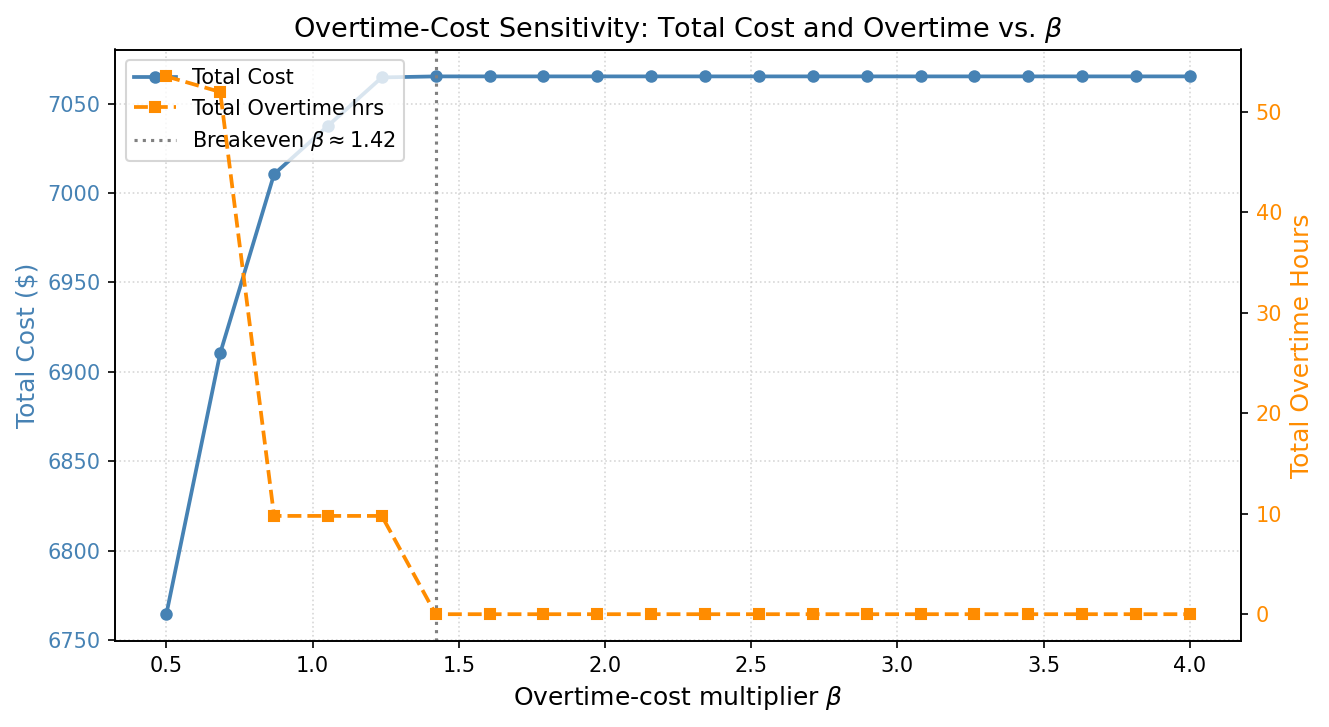
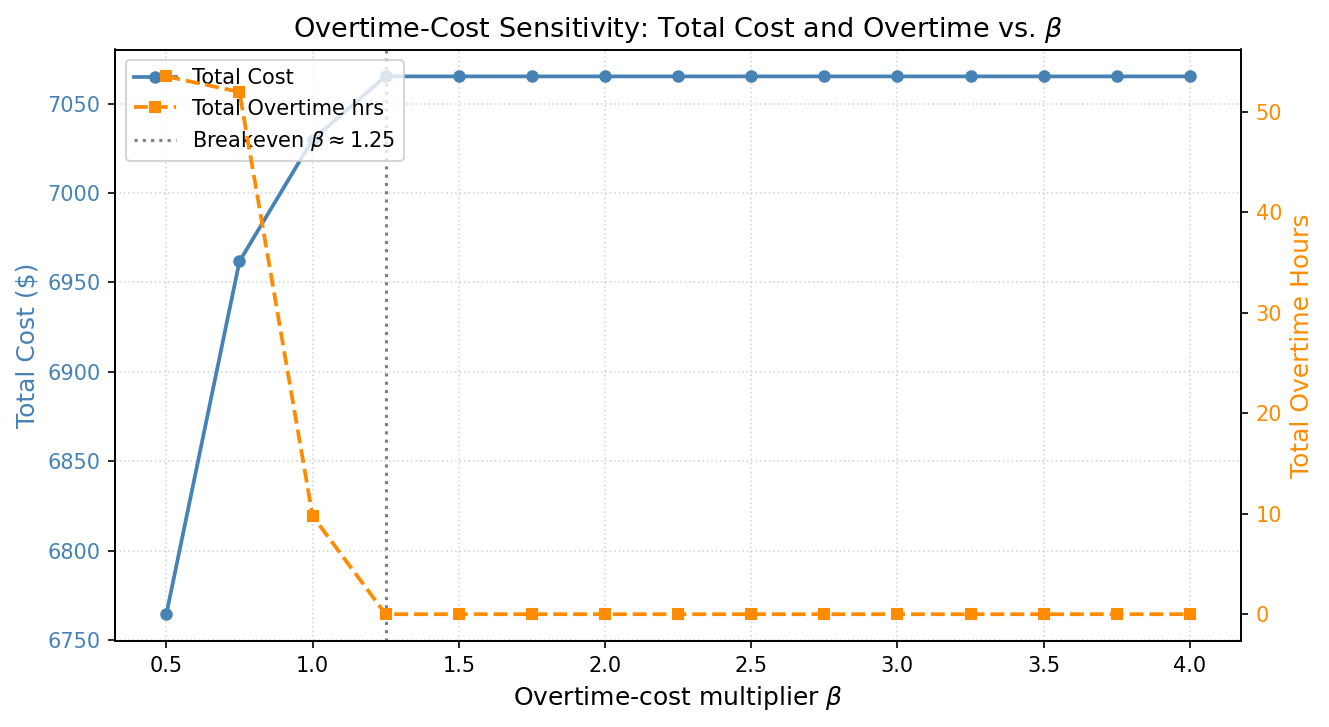
add: part A exam

diff --git a/semester_1/mathematical_programming/exercises/coding_exam/part_A_Hurtado.py b/semester_1/mathematical_programming/exercises/coding_exam/part_A_Hurtado.py
@@ -92,7 +92,7 @@ epsilon = 0.25
 # 3. MODEL BUILDER
 # ===========================================================================
 
-def build_and_solve(alpha=1.0, beta=1.0):
+def build_and_solve(alpha=1.0, beta=1.0, output_flag=False):
     """
     Params:
     alpha : multiplier on holding costs CH_k -> alpha * CH_k
@@ -103,17 +103,34 @@ def build_and_solve(alpha=1.0, beta=1.0):
     Returns (model, vars_dict) or (None, None) if not optimal.
     """
     mdl = gp.Model("production_planning_problem")
+    mdl.setParam('OutputFlag', 1 if output_flag else 0)  # Suppress Gurobi output
 
+    # Adjusted costs based on sensitivity parameters
     CH  = {k: alpha * CH_base[k] for k in K}
     cov = {(m, t): beta * cov_base[m, t] for m in M for t in T}
 
+    # ===================================================================================
     # Variables
+    # ===================================================================================
+    # x[m,k,t] = unit of k produced on furnace m in period t
     x   = mdl.addVars(M, K, T, vtype=GRB.CONTINUOUS, lb=0, name='x')
+
+    # y[j,k,t] = unit of k delivered to DC j in period t
     y   = mdl.addVars(J, K, T, vtype=GRB.CONTINUOUS, lb=0, name='y')
-    inv = mdl.addVars(K, T, vtype=GRB.CONTINUOUS,    lb=0, name='inv')
-    bkd = mdl.addVars(K, T, vtype=GRB.CONTINUOUS,    lb=0, name='bkd')
-    ot  = mdl.addVars(M, T, vtype=GRB.CONTINUOUS,    lb=0, name='ot')
-    z   = mdl.addVars(M, T, vtype=GRB.BINARY,              name='z')
+
+    # inv[k,t] = physical inventory of k at end of period t
+    # note: I can limit inventory to 200 units (S_cap).
+    # Contraint (6) will enforce this, but adding an upper bound here can help the solver.
+    inv = mdl.addVars(K, T, vtype=GRB.CONTINUOUS, lb=0, ub=200, name='inventory')
+
+    # bkd[k,t] = cumulativebackorder of k at end of period t
+    bkd = mdl.addVars(K, T, vtype=GRB.CONTINUOUS, lb=0, name='backorder')
+    
+    # ot[m,t] = overtime hours used on furnace m in period t
+    ot  = mdl.addVars(M, T, vtype=GRB.CONTINUOUS, lb=0, name='overtime')
+
+    # z[m,t] = binary variable indicating if furnace m is used in period t
+    z   = mdl.addVars(M, T, vtype=GRB.BINARY, name='furnace_used')
 
     # Objective (1)
     mdl.setObjective(
@@ -144,12 +161,12 @@ def build_and_solve(alpha=1.0, beta=1.0):
             mdl.addConstr(
                 quicksum(y[j,k,t] for j in J) + bkd[k,t]
                 == quicksum(D[j,k,t] for j in J) + bkd_prev,
-                name=f'bo_bal_{k}_{t}'
+                name=f'backorder_bal_{k}_{t}'
             )
 
     # (4) Final backorders = 0
     for k in K:
-        mdl.addConstr(bkd[k, 4] == 0, name=f'bo_final_{k}')
+        mdl.addConstr(bkd[k, len(T)] == 0, name=f'backorder_final_{k}')
 
     # (5) Service level
     for k in K:
@@ -161,9 +178,10 @@ def build_and_solve(alpha=1.0, beta=1.0):
             )
 
     # (6) Inventory cap
-    for k in K:
-        for t in T:
-            mdl.addConstr(inv[k,t] <= S_cap[k], name=f'inv_cap_{k}_{t}')
+    # Note: I already set an UB of 200 in inv[k,t] when defining the variable, so this constraint is redundant
+    # for k in K:
+    #     for t in T:
+    #         mdl.addConstr(inv[k,t] <= S_cap[k], name=f'inv_cap_{k}_{t}')
 
     # (7) Machine hours
     for m in M:
@@ -171,22 +189,26 @@ def build_and_solve(alpha=1.0, beta=1.0):
             mdl.addConstr(
                 quicksum(a_mach[m,k] * x[m,k,t] for k in K)
                 <= H_reg[m,t] * z[m,t] + ot[m,t],
-                name=f'hours_{m}_{t}'
+                name=f'hours_used_{m}_{t}'
             )
 
     # (8) Overtime limit
     for m in M:
         for t in T:
-            mdl.addConstr(ot[m,t] <= H_ov[m,t] * z[m,t], name=f'ot_lim_{m}_{t}')
+            mdl.addConstr(
+                ot[m,t] <= H_ov[m,t] * z[m,t], 
+                name=f'overtime_lim_{m}_{t}'
+            )
 
     # (9)-(10) Production smoothing
     for k in K:
         for t in T:
             if t >= 2:
-                X_t   = quicksum(x[m,k,t]   for m in M)
-                X_tm1 = quicksum(x[m,k,t-1] for m in M)
-                mdl.addConstr(X_t <= (1 + epsilon) * X_tm1, name=f'smooth_up_{k}_{t}')
-                mdl.addConstr(X_t >= (1 - epsilon) * X_tm1, name=f'smooth_dn_{k}_{t}')
+                X_kt = quicksum(x[m,k,t]  for m in M)
+                X_kt_1 = quicksum(x[m,k,t-1] for m in M)
+
+                mdl.addConstr(X_kt <= (1 + epsilon) * X_kt_1, name=f'smooth_up_{k}_{t}')
+                mdl.addConstr(X_kt >= (1 - epsilon) * X_kt_1, name=f'smooth_down_{k}_{t}')
 
     mdl.optimize()
 
@@ -206,15 +228,19 @@ print("="*70)
 
 mdl, vs = build_and_solve(alpha=1.0, beta=1.0, output_flag=True)
 if mdl is None:
-    raise SystemExit("Base model infeasible!")
+    raise SystemExit("Base model infeasible, sad!")
 
 x_v, y_v, inv_v, bkd_v, ot_v, z_v = (
     vs['x'], vs['y'], vs['inv'], vs['bkd'], vs['ot'], vs['z']
 )
-
+# ===========================================================================
+# i) Optimal objective value
+# ===========================================================================
 print(f"\nOptimal objective value: {mdl.ObjVal:,.4f}\n")
 
-# Production / delivery / inventory / backorder table
+# ===========================================================================
+# ii) Actual Demand / Optimal production / delivery / inventory / backorder table
+# ===========================================================================
 rows = []
 for k in K:
     for t in T:
@@ -232,10 +258,12 @@ for k in K:
             'B_kt': round(B_kt, 4),
         })
 df_prod = pd.DataFrame(rows)
-print("Production / Delivery / Inventory / Backorder Table:")
+print("Demand / Production / Delivery / Inventory / Backorder Table:")
 print(df_prod.to_string(index=False))
 
-# Furnace schedule table
+# ===========================================================================
+# iii) Furnace table (z[m,t], hours used, overtime used)
+# ===========================================================================
 rows2 = []
 for m in M:
     for t in T:
@@ -251,43 +279,28 @@ for m in M:
             'Total hrs used': round(hours_used, 4),
         })
 df_furn = pd.DataFrame(rows2)
-print("\nFurnace Schedule Table:")
+print("\nFurnace Table:")
 print(df_furn.to_string(index=False))
-
-# Cost breakdown
-cost_prod  = sum(CP[m,k,t]     * x_v[m,k,t].X  for m in M for k in K for t in T)
-cost_trans = sum(CT[j,k,t]     * y_v[j,k,t].X  for j in J for k in K for t in T)
-cost_act   = sum(CF[m,t]       * z_v[m,t].X    for m in M for t in T)
-cost_ot    = sum(cov_base[m,t] * ot_v[m,t].X   for m in M for t in T)
-cost_hold  = sum(CH_base[k]    * inv_v[k,t].X  for k in K for t in T)
-cost_bo    = sum(CB[k]         * bkd_v[k,t].X  for k in K for t in T)
-
-print("\nCost Breakdown:")
-print(f"  Production cost : {cost_prod:,.4f}")
-print(f"  Transport cost  : {cost_trans:,.4f}")
-print(f"  Activation cost : {cost_act:,.4f}")
-print(f"  Overtime cost   : {cost_ot:,.4f}")
-print(f"  Holding cost    : {cost_hold:,.4f}")
-print(f"  Backorder cost  : {cost_bo:,.4f}")
-print(f"  TOTAL           : {cost_prod+cost_trans+cost_act+cost_ot+cost_hold+cost_bo:,.4f}")
-
-# Store base x values for reporting
-X_base = {(m,k,t): x_v[m,k,t].X for m in M for k in K for t in T}
 
 # ===========================================================================
 # 5. A.2 — HOLDING-COST SENSITIVITY
 # ===========================================================================
 
 print("\n" + "="*70)
-print("  A.2 — HOLDING-COST SENSITIVITY  (alpha sweep, 25 points)")
+print("  A.2 — HOLDING-COST SENSITIVITY  (alpha sweep, 20 points)")
 print("="*70)
 
-alphas   = np.linspace(0, 5, 25)
+alphas   = np.linspace(0, 5, 20)
+print(
+    "Running sensitivity analysis on alpha (holding-cost multiplier):\n"
+    f" Testing values: {', '.join(f'{a:.2f}' for a in alphas)} \n"
+)
 costs_A2 = []
 invs_A2  = []
 
 for alpha in alphas:
-    m2, vs2 = build_and_solve(alpha=alpha, beta=1.0)
+    m2, vs2 = build_and_solve(alpha=alpha, beta=1.0, output_flag=False)
+    status_str = "Optimal" if m2 is not None and m2.Status == GRB.OPTIMAL else "Infeasible/Unbounded"
     if m2 is None:
         costs_A2.append(float('nan'))
         invs_A2.append(float('nan'))
@@ -295,9 +308,9 @@ for alpha in alphas:
         costs_A2.append(m2.ObjVal)
         total_inv = sum(vs2['inv'][k,t].X for k in K for t in T)
         invs_A2.append(total_inv)
-    print(f"  alpha={alpha:.3f}  cost={costs_A2[-1]:,.2f}  inv={invs_A2[-1]:.2f}")
+    print(f"{status_str}  alpha={alpha:.3f}  cost={costs_A2[-1]:,.2f}  inv={invs_A2[-1]:.2f}")
 
-kink_alpha = None
+kink_alpha = None # point where inventory drops to zero, indicating a shift from produce-ahead to just-in-time strategy
 for a_val, inv_val in zip(alphas, invs_A2):
     if inv_val < 1e-3:
         kink_alpha = a_val
@@ -335,15 +348,20 @@ print(f"Figure saved: {path_A2}")
 # ===========================================================================
 
 print("\n" + "="*70)
-print("  A.3 — OVERTIME-COST SENSITIVITY  (beta sweep, 20 points)")
+print("  A.3 — OVERTIME-COST SENSITIVITY  (beta sweep, 15 points)")
 print("="*70)
 
-betas    = np.linspace(0.5, 4.0, 20)
+betas    = np.linspace(0.5, 4.0, 15)
+print(
+    "Running sensitivity analysis on beta (overtime-cost multiplier):\n"
+    f" Testing values: {', '.join(f'{b:.2f}' for b in betas)} \n"
+)
 costs_A3 = []
 ots_A3   = []
 
 for beta in betas:
-    m3, vs3 = build_and_solve(alpha=1.0, beta=beta)
+    m3, vs3 = build_and_solve(alpha=1.0, beta=beta, output_flag=False)
+    status_str = "Optimal" if m3 is not None and m3.Status == GRB.OPTIMAL else "Infeasible/Unbounded"
     if m3 is None:
         costs_A3.append(float('nan'))
         ots_A3.append(float('nan'))
@@ -351,9 +369,9 @@ for beta in betas:
         costs_A3.append(m3.ObjVal)
         total_ot = sum(vs3['ot'][m,t].X for m in M for t in T)
         ots_A3.append(total_ot)
-    print(f"  beta={beta:.3f}  cost={costs_A3[-1]:,.2f}  overtime={ots_A3[-1]:.4f}")
+    print(f"{status_str}  beta={beta:.3f}  cost={costs_A3[-1]:,.2f}  overtime={ots_A3[-1]:.4f}")
 
-breakeven_beta = None
+breakeven_beta = None # point where overtime drops to zero, indicating that the overtime premium exceeds the marginal benefit of extra production
 for b_val, ot_val in zip(betas, ots_A3):
     if ot_val < 1e-3:
         breakeven_beta = b_val
@@ -388,5 +406,3 @@ plt.close(fig3)
 print(f"Figure saved: {path_A3}")
 
 print("\n" + "="*70)
-print("  [Part A complete]")
-print("="*70 + "\n")
